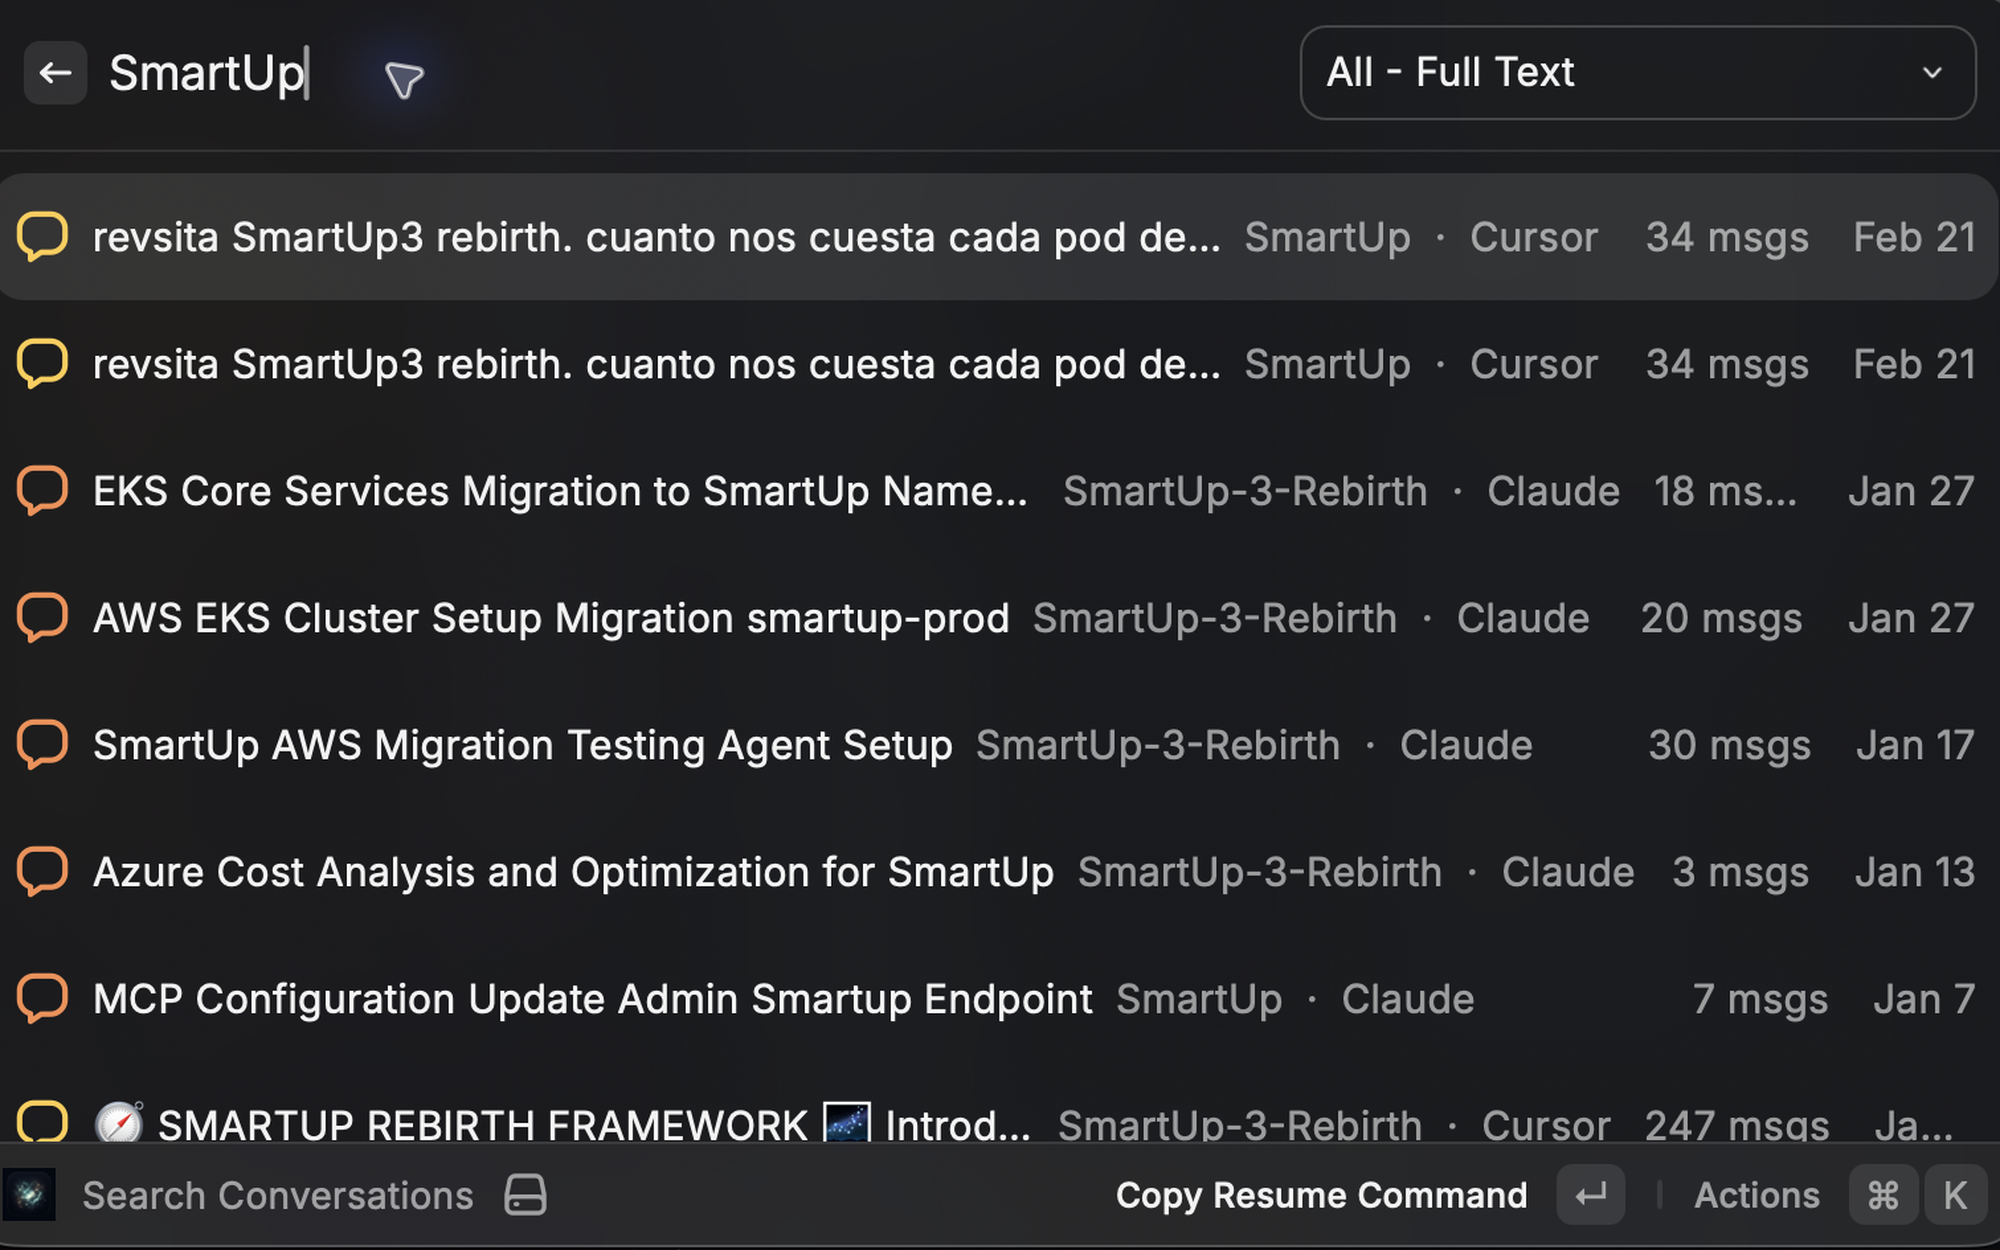
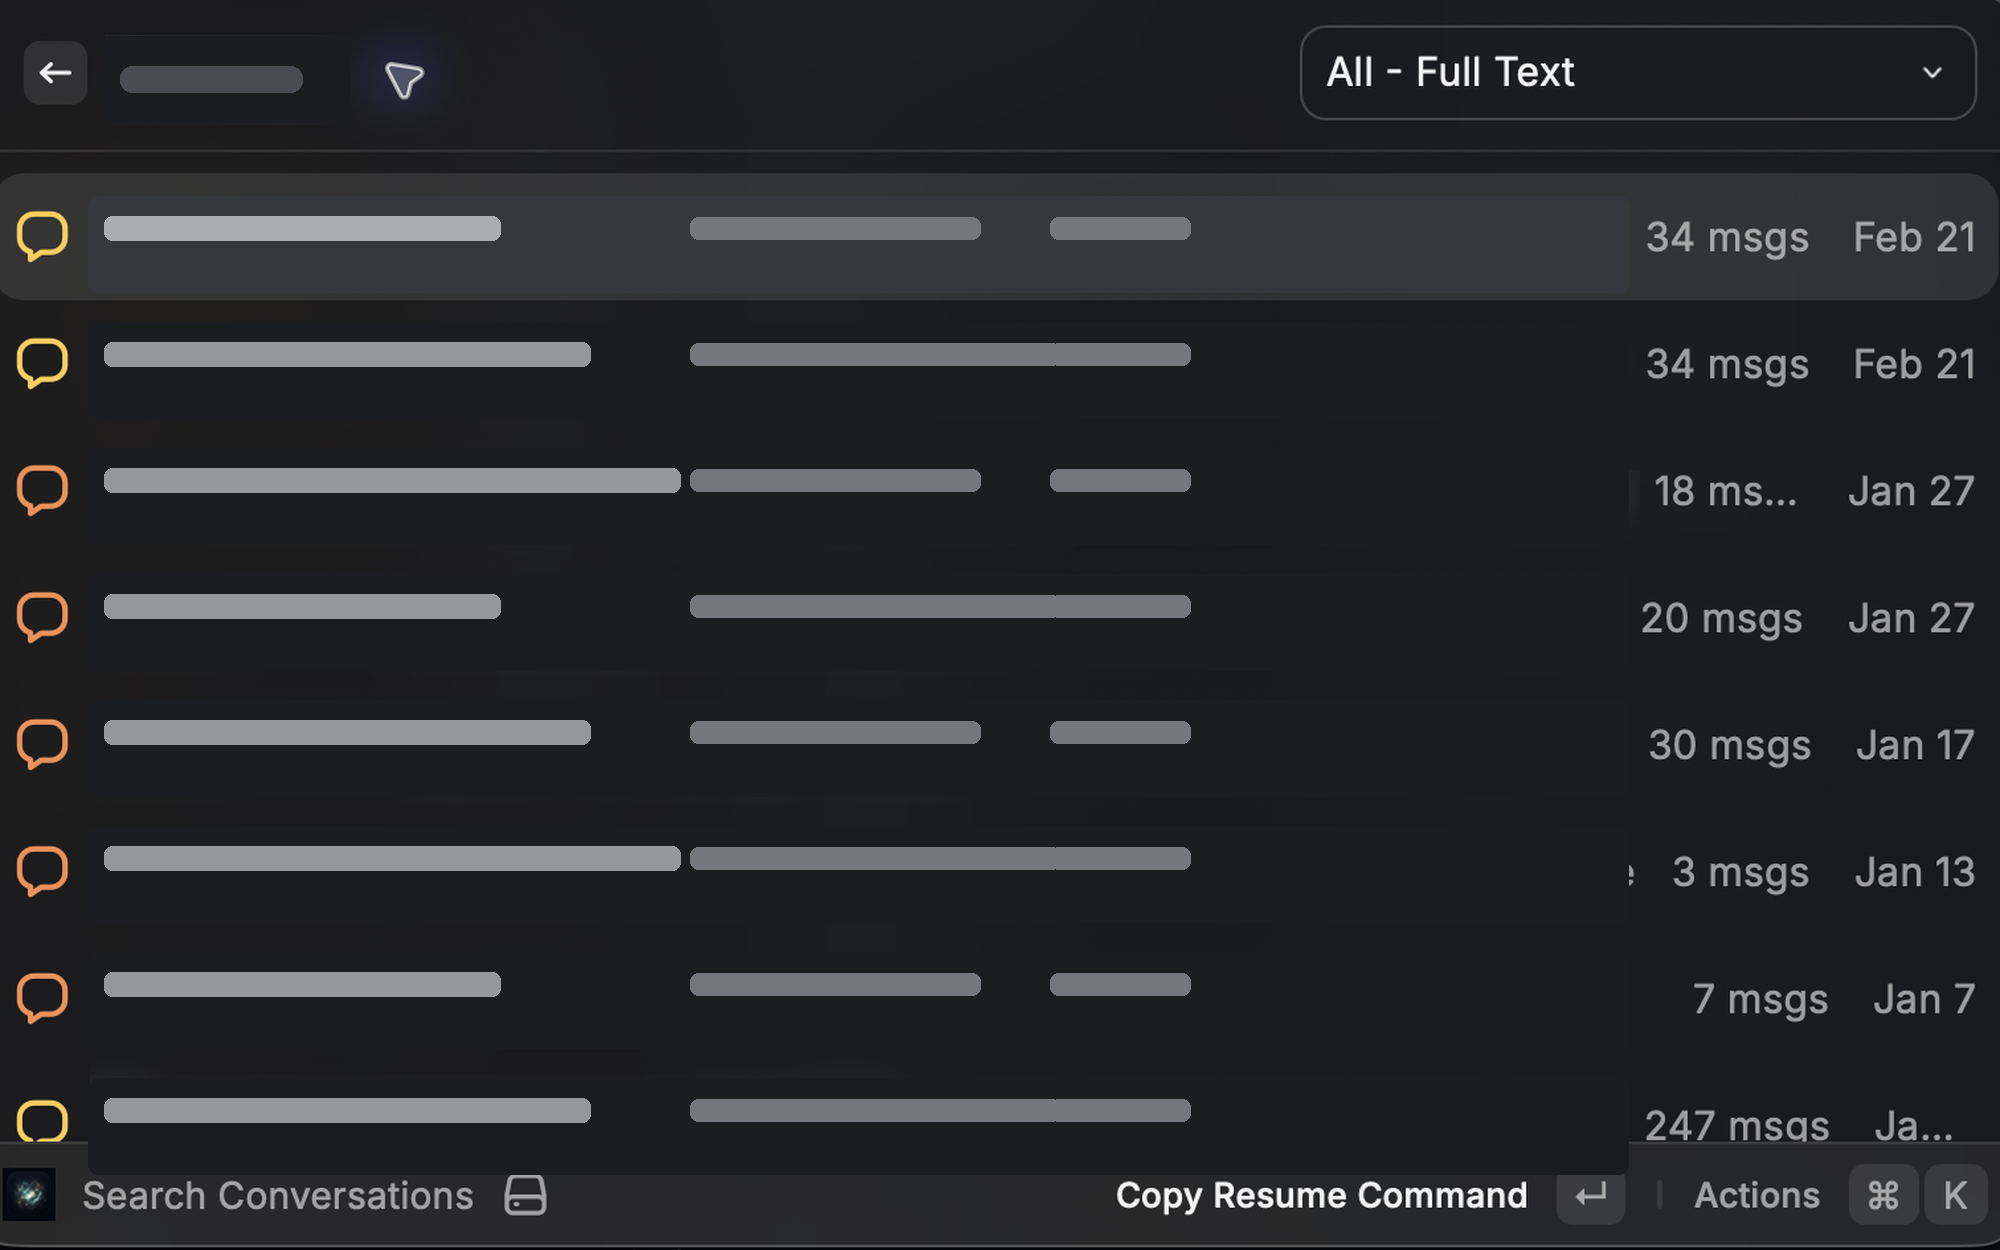
Address Raycast review feedback

diff --git a/raycast/src/search-conversations.tsx b/raycast/src/search-conversations.tsx
@@ -271,6 +271,9 @@ async function runFainder(args: string[]): Promise<string> {
       return await exec(binary, args);
     } catch (error) {
       lastError = error;
+      if (!isFileNotFound(error)) {
+        throw error;
+      }
     }
   }
   throw lastError;
@@ -290,13 +293,27 @@ function exec(file: string, args: string[]): Promise<string> {
       },
       (error, stdout, stderr) => {
         if (error) {
-          reject(new Error(stderr.trim() || error.message));
+          const nextError = new Error(
+            stderr.trim() || error.message,
+          ) as NodeJS.ErrnoException;
+          nextError.code =
+            typeof error.code === "string" ? error.code : undefined;
+          reject(nextError);
           return;
         }
         resolve(stdout);
       },
     );
   });
+}
+
+function isFileNotFound(error: unknown): boolean {
+  return (
+    typeof error === "object" &&
+    error !== null &&
+    "code" in error &&
+    (error as NodeJS.ErrnoException).code === "ENOENT"
+  );
 }
 
 function escapeAppleScript(value: string): string {
